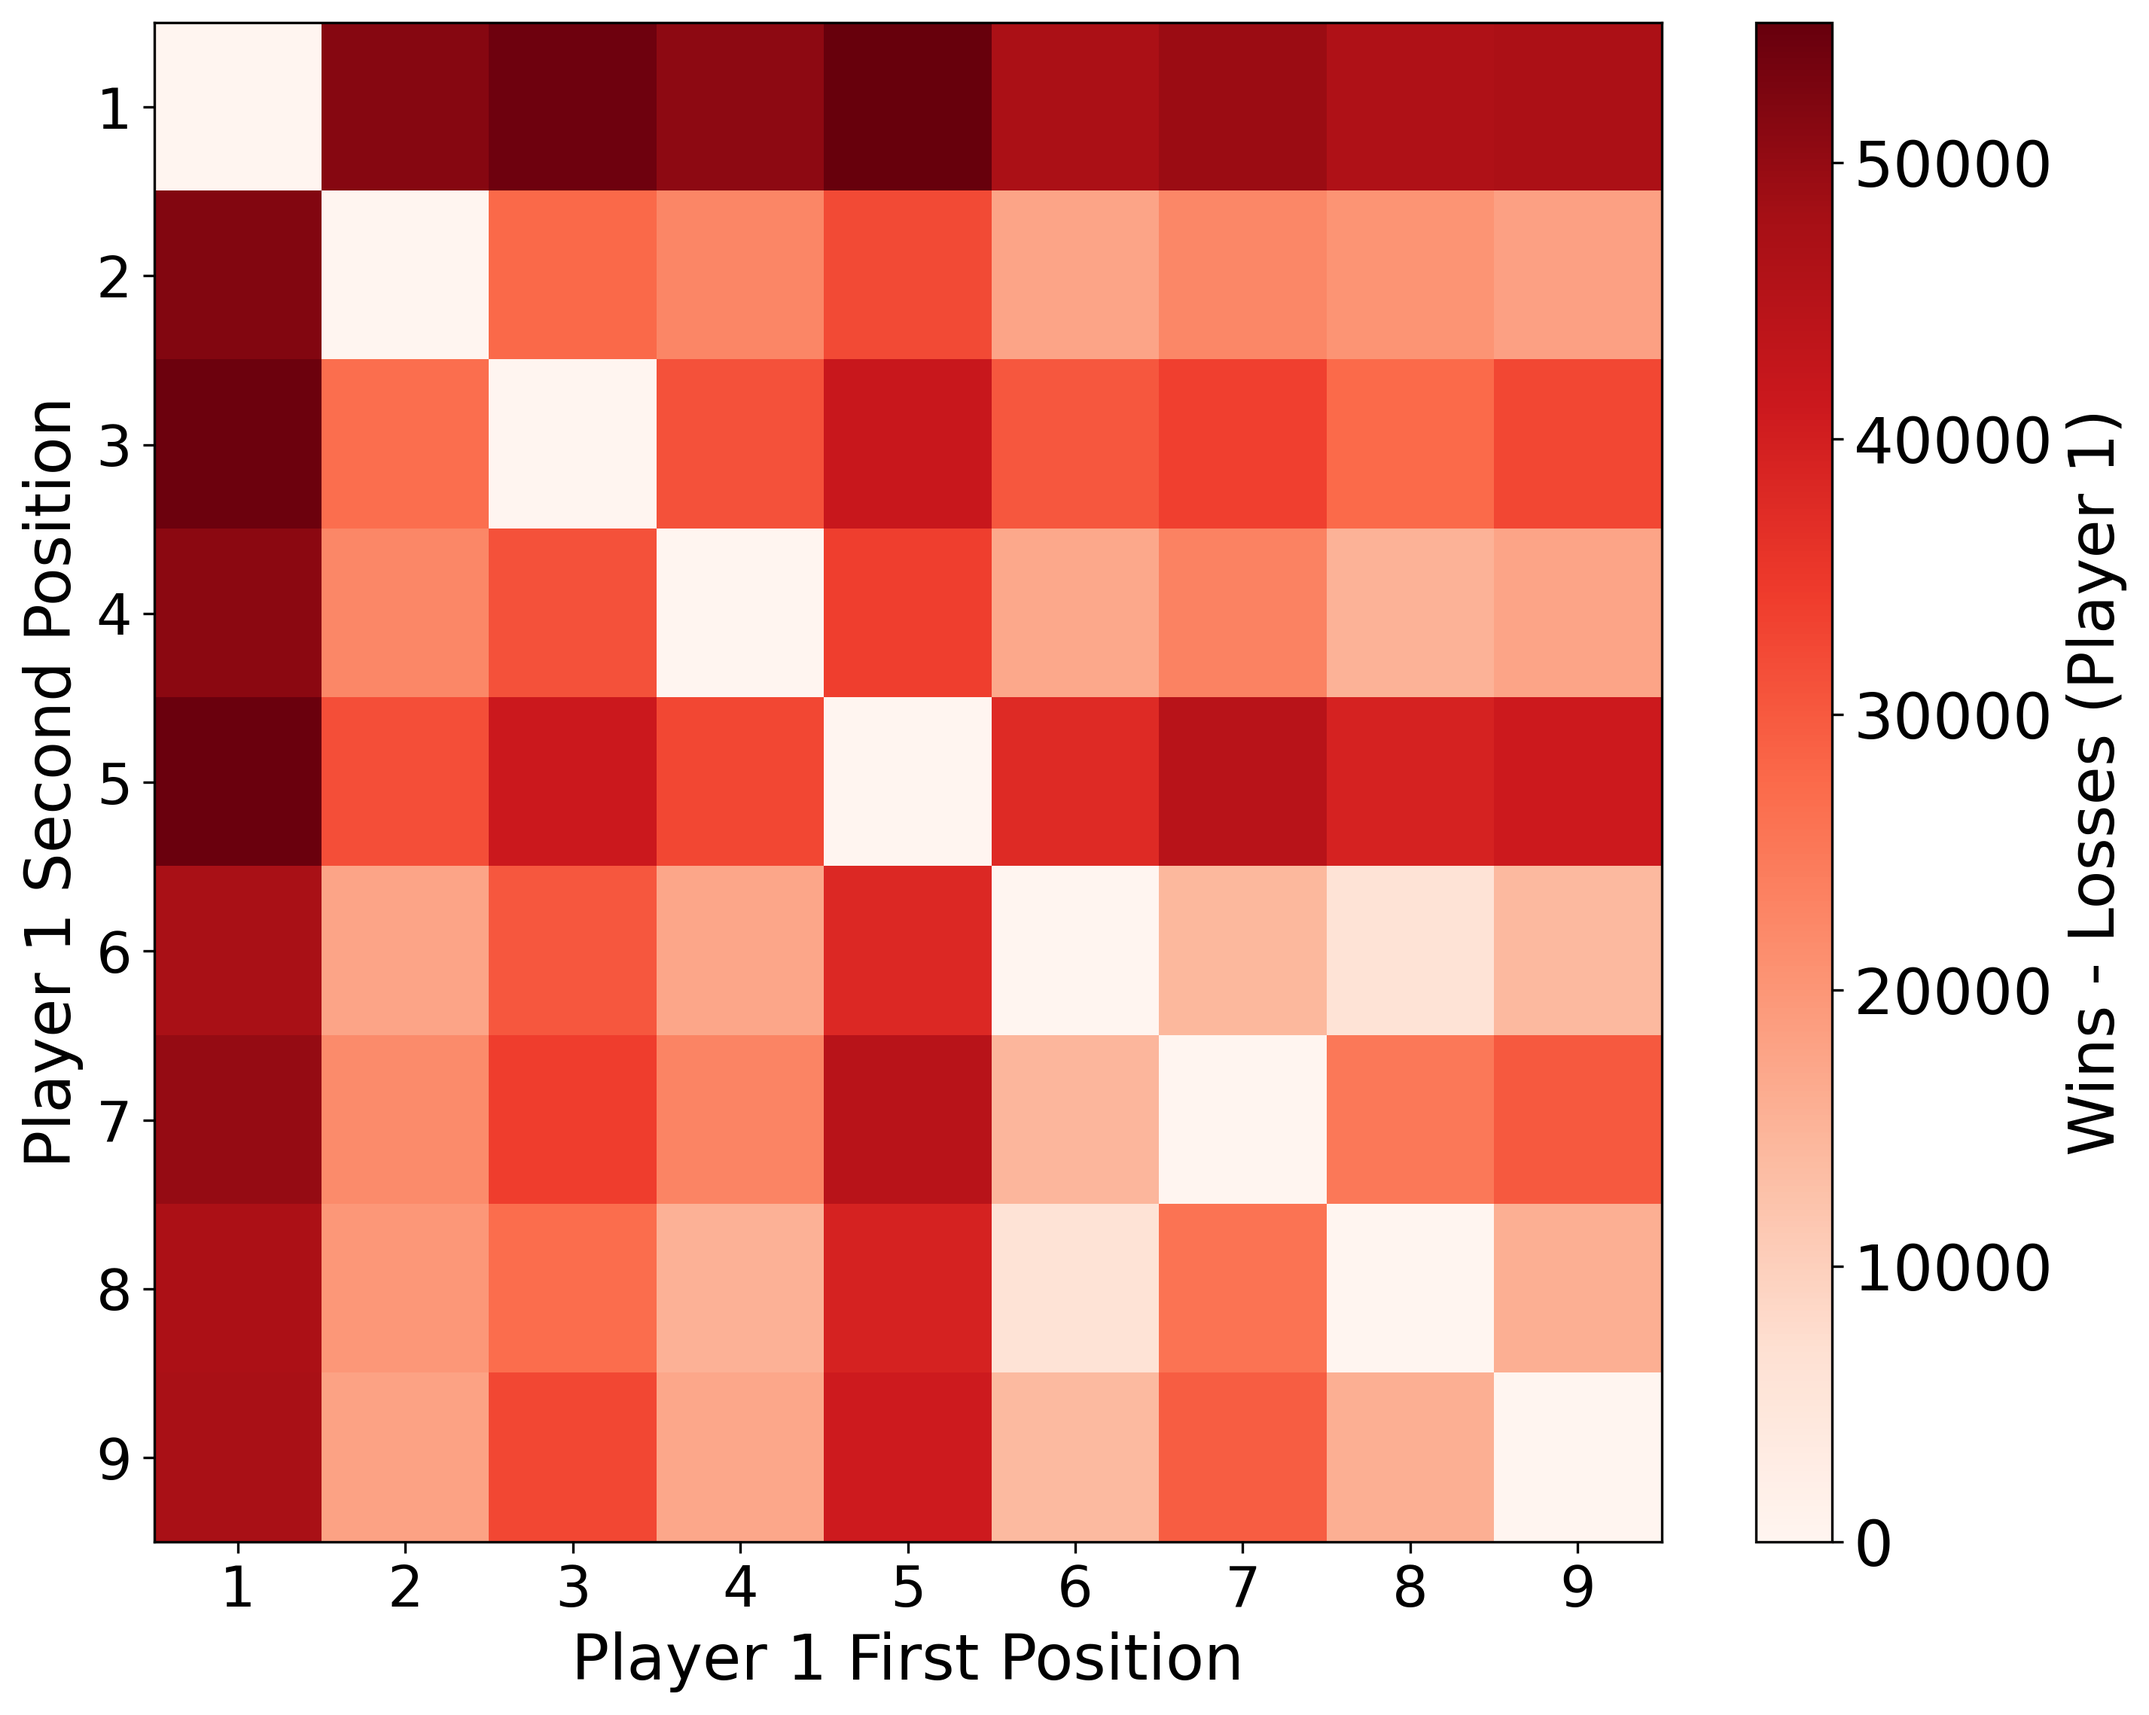
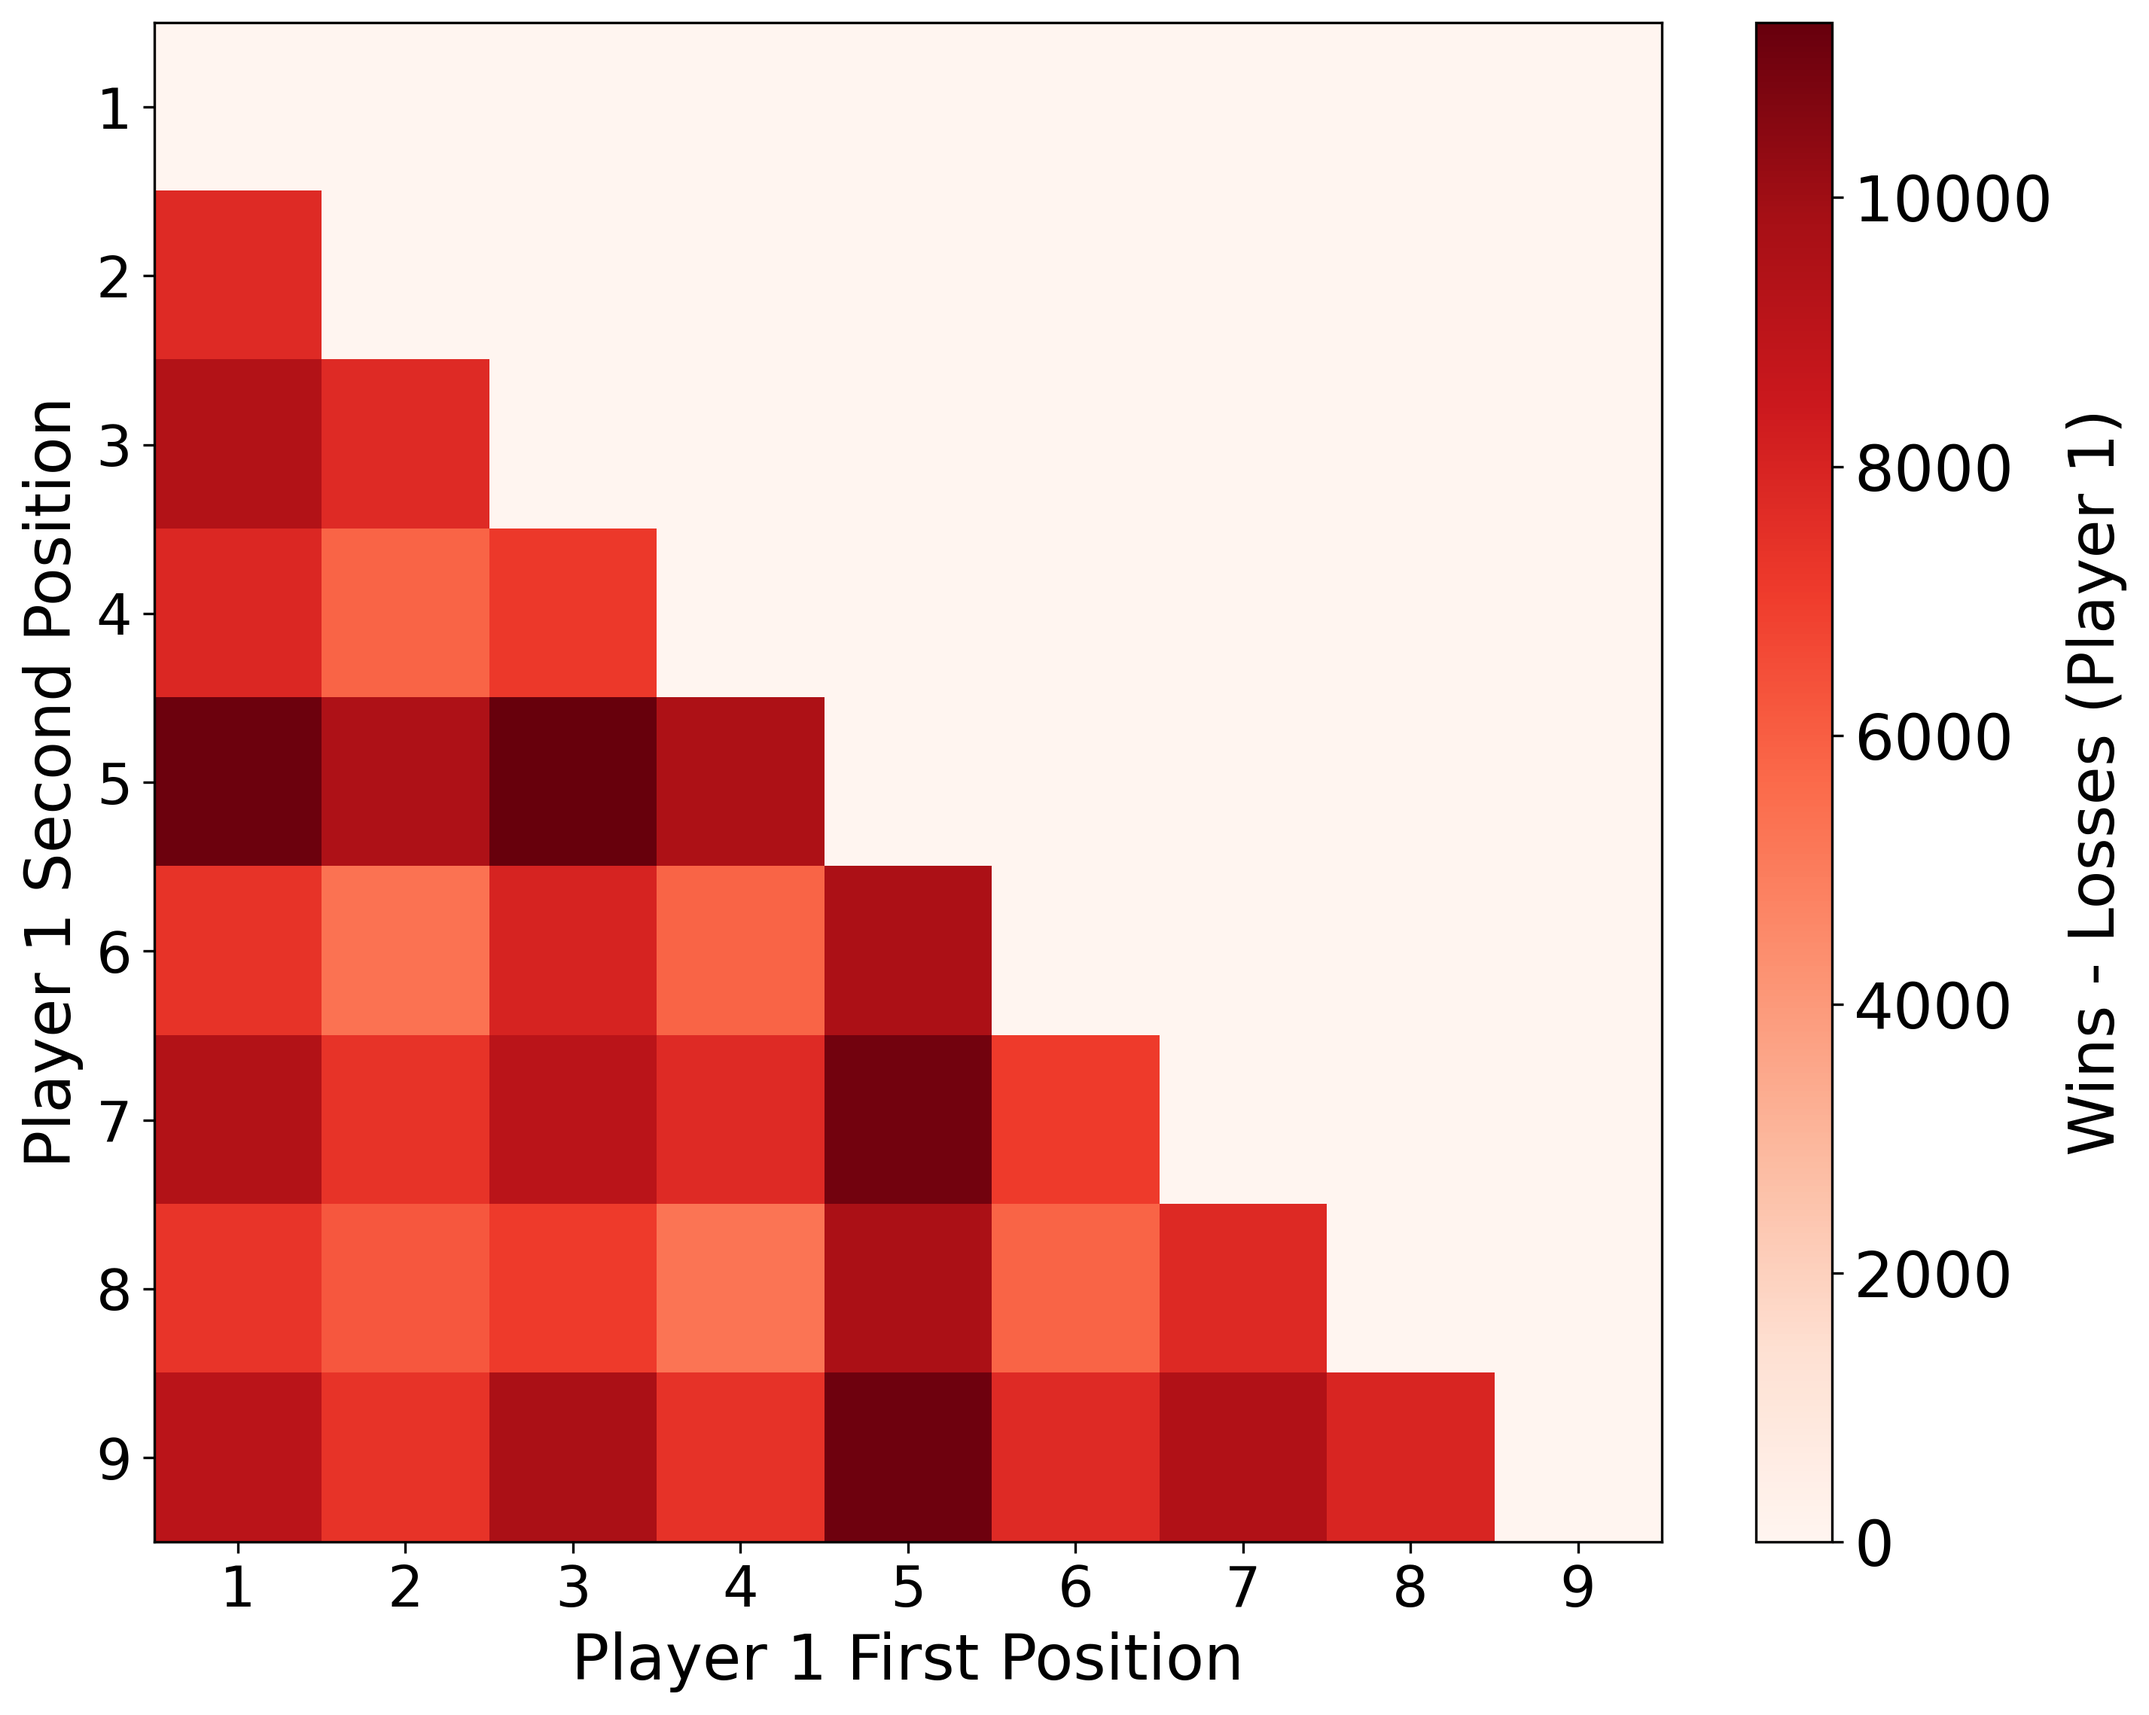
updated figures

diff --git a/qstatistics/run_all.py b/qstatistics/run_all.py
@@ -1,0 +1,28 @@
+import subprocess
+import sys
+import os
+
+def main():
+    scripts = [
+        ("total_wins.py", "Total Wins"),
+        ("first_move_performance.py", "First Move Performance"),
+        ("wins_vs_steps.py", "Wins vs Steps"),
+        ("num_moves.py", "Number of Moves"),
+        ("num_steps.py", "Number of Steps"),
+    ]
+    
+    base_dir = os.path.dirname(__file__)
+    
+    for script_name, title in scripts:
+        script_path = os.path.join(base_dir, script_name)
+        print(f"\n{'='*50}")
+        print(f"Running: {title}")
+        print(f"{'='*50}")
+        result = subprocess.run([sys.executable, script_path])
+        if result.returncode != 0:
+            print(f"Error running {script_name}")
+        else:
+            print(f"Completed: {title}")
+
+if __name__ == "__main__":
+    main()

diff --git a/qstatistics/wins_vs_steps.py b/qstatistics/wins_vs_steps.py
@@ -34,7 +34,7 @@ def get_wins_by_steps(collection, limit=None):
 
 def main():
     N_values = [1e5, 1e6, 1e7]
-    collection_name = "QGameResults_10M"
+    collection_name = "QGameResults_1M"
 
     # Set global font size for better visibility
     plt.rcParams.update({"font.size": 20})

diff --git a/qstatistics/first_move_performance.py b/qstatistics/first_move_performance.py
@@ -182,7 +182,7 @@ def create_heatmap(heatmap_data):
 
 
 def main():
-    collection = db["QGameResults_10M"]  # Change as needed
+    collection = db["QGameResults_1M"]  # Change as needed
 
     # Generate heatmap data
     heatmap_data = analyze_first_move_combinations(collection)

diff --git a/qstatistics/num_steps.py b/qstatistics/num_steps.py
@@ -61,5 +61,5 @@ def main():
 if __name__ == "__main__":
     with MongoClient("mongodb://localhost:27017") as client:
         database = client["TicTacToe"]
-        collection = database["QGameResults_10M"]
+        collection = database["QGameResults_1M"]
         main()

diff --git a/qstatistics/num_moves.py b/qstatistics/num_moves.py
@@ -42,5 +42,5 @@ def main():
 if __name__ == "__main__":
     with MongoClient("mongodb://localhost:27017") as client:
         db = client["TicTacToe"]
-        collection = db["QGameResults_10M"]
+        collection = db["QGameResults_1M"]
         main()

diff --git a/qstatistics/total_wins.py b/qstatistics/total_wins.py
@@ -39,5 +39,5 @@ def main():
 if __name__ == "__main__":
     with MongoClient("mongodb://localhost:27017") as client:
         db = client["TicTacToe"]
-        collection = db["QGameResults_10M"]
+        collection = db["QGameResults_1M"]
         main()
